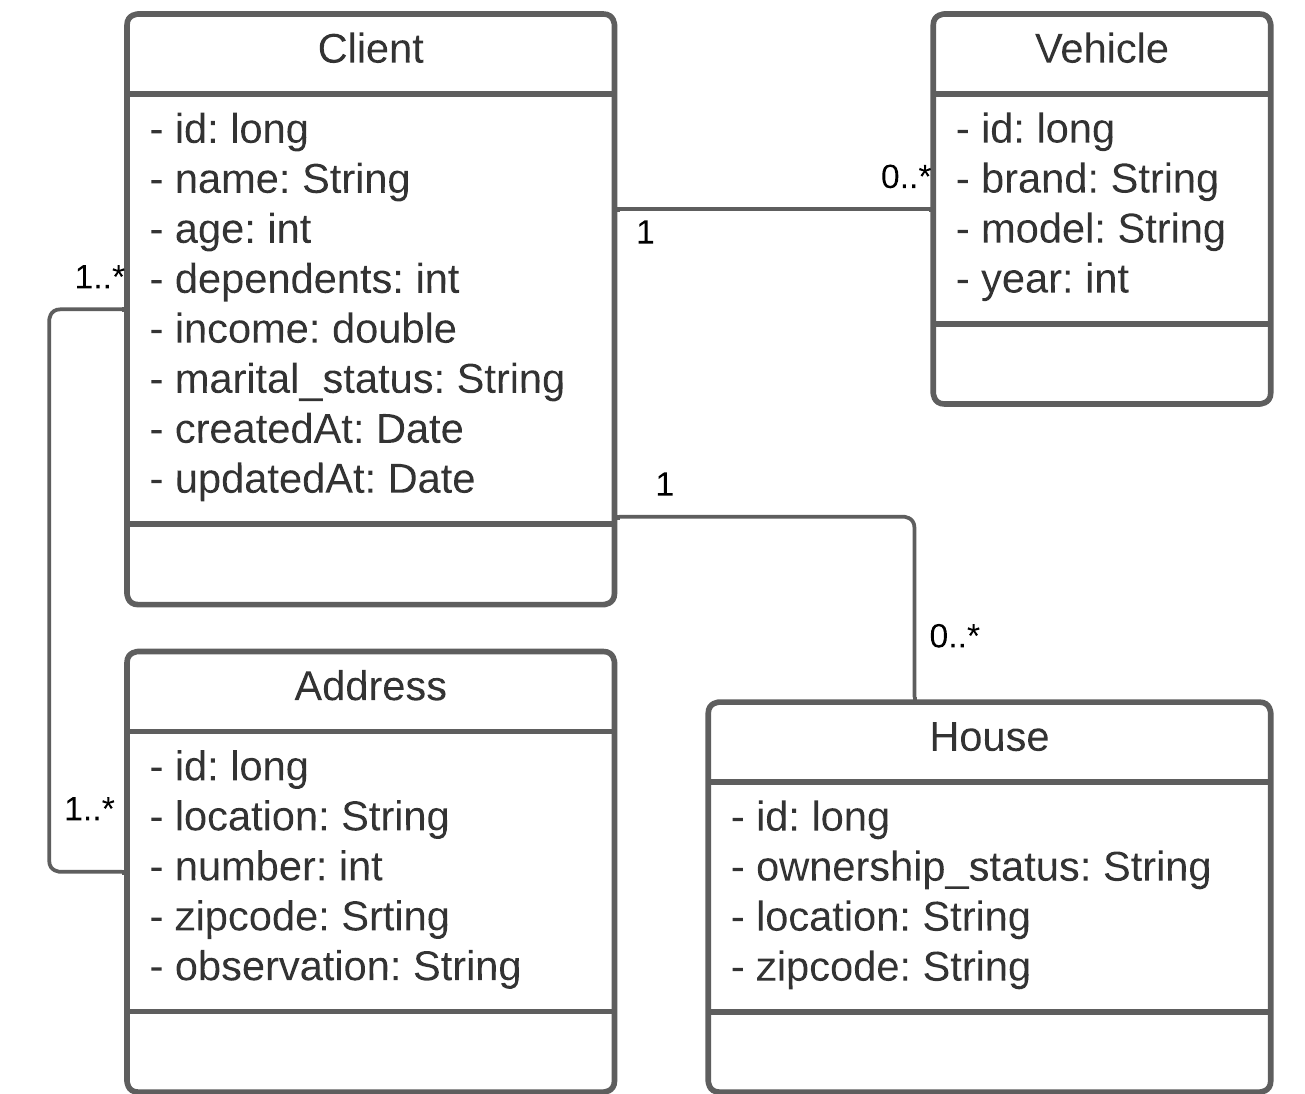
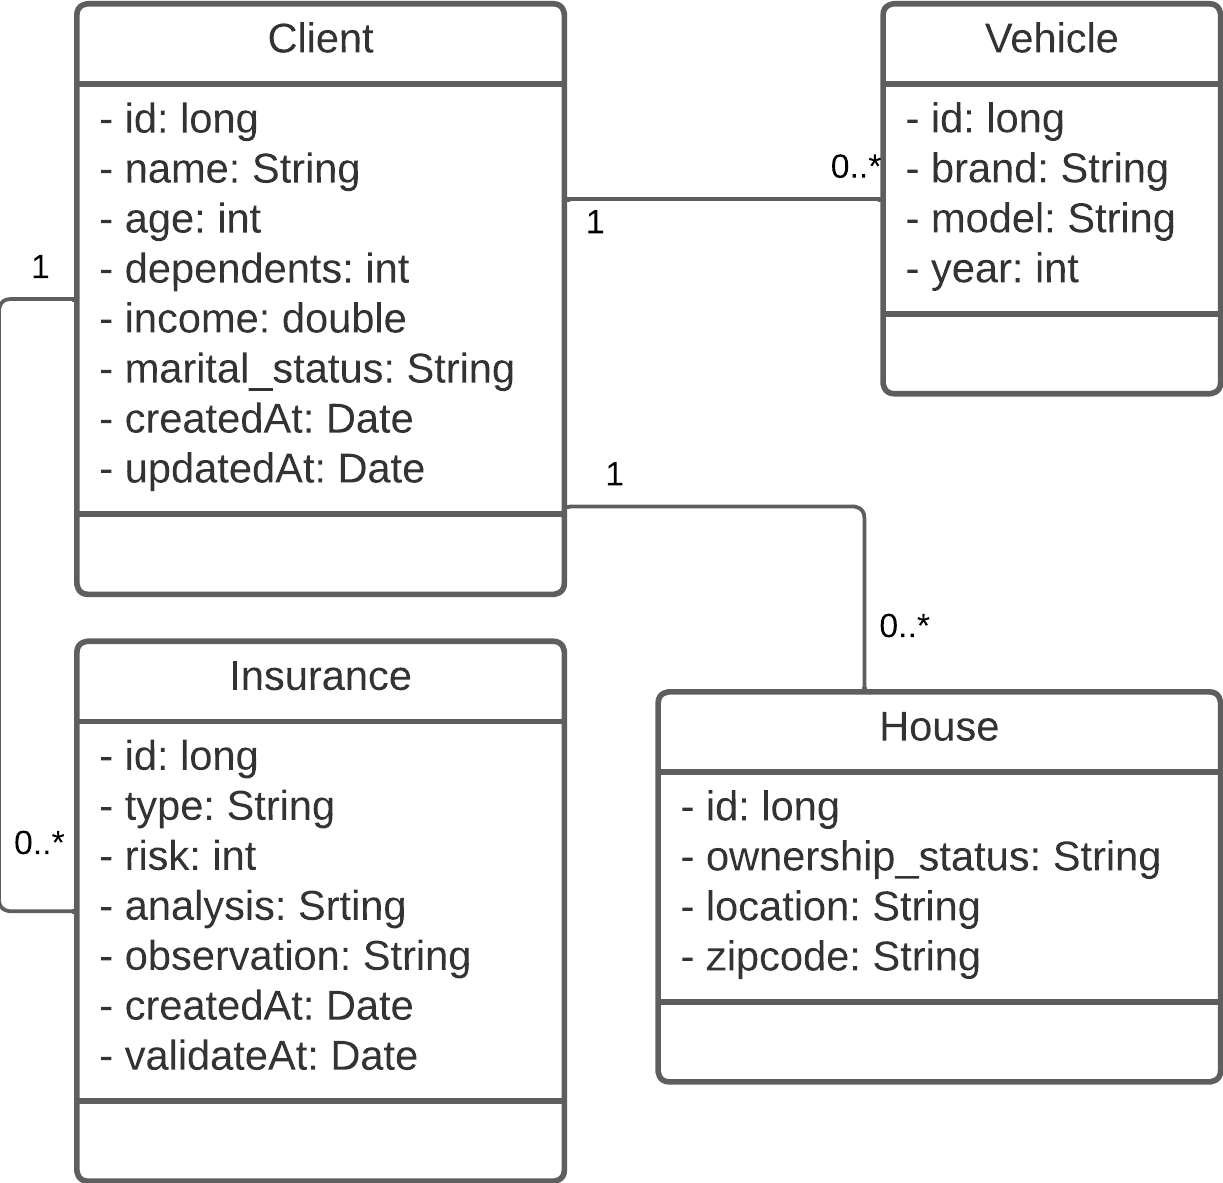
Adicionando instruções para o desafio NExT spring

Changed region(s): [[0.0, 0.0, 1.0, 1.0]]

diff --git a/README.md b/README.md
@@ -732,6 +732,222 @@ Retorna um objeto do tipo veículo que foi deletado.
 
 
 
+-------------------------------------------------------------
+<!-- Requisitos do Seguro -->
+
+
+
+
+
+
+
+
+### Requisitos do Seguro
+
+<details>
+<summary style="font-size:16px"><b>POST: /insurances/life</b></summary>
+
+### Função
+
+Realiza a analise de risco para a linha de seguro vida.
+
+#### Requisição
+
+**Parâmetros**
+| Parâmetro | Descrição | Tipo de Parâmetro | Tipo de dado | Obrigatório |
+|-----------|-----------|-------------------|--------------|------------|
+| `risk_questions` | Questões de risco. | `body` | `[boolean,boolean,boolean]` | Sim |
+| `client_id` | ID do cliente | `body` | `long` | Sim |
+
+
+**URL de Requisição**
+
+> $ curl -i -H "Content-Type:application/json" -d '{"risk_questions": "[bool,bool,bool]", "client_id": "long"}' https://localhost:8080/insurances/life
+
+#### Exemplo de requisição
+
+Envia um objeto do tipo `seguro` com o formato abaixo.
+
+```JSON
+{
+  "risk_questions": List [boolean, boolean, boolean],
+  "client_id": long
+}
+```
+
+Retorna um objeto do tipo seguro cadastrado, após realizar a analise de risco para a linha de seguro vida.
+
+#### Exemplo de resposta
+
+```JSON
+{
+ "id": long,
+ "type": String,
+ "risk": int,
+ "analysis": Srting,
+ "observation": String,
+ "client_id": long,
+ "createdAt": Date,
+ "validateAt": Date
+}
+```
+</details>
+
+
+<details>
+<summary style="font-size:16px"><b>POST: /insurances/disability</b></summary>
+
+### Função
+
+Realiza a analise de risco para a linha de seguro invalidez.
+
+#### Requisição
+
+**Parâmetros**
+| Parâmetro | Descrição | Tipo de Parâmetro | Tipo de dado | Obrigatório |
+|-----------|-----------|-------------------|--------------|------------|
+| `risk_questions` | Questões de risco. | `body` | `[boolean,boolean,boolean]` | Sim |
+| `client_id` | ID do cliente | `body` | `long` | Sim |
+
+
+**URL de Requisição**
+
+> $ curl -i -H "Content-Type:application/json" -d '{"risk_questions": "[bool,bool,bool]", "client_id": "long"}' https://localhost:8080/insurances/disability
+
+#### Exemplo de requisição
+
+Envia um objeto do tipo `seguro` com o formato abaixo.
+
+```JSON
+{
+  "risk_questions": List [boolean, boolean, boolean],
+  "client_id": long
+}
+```
+
+Retorna um objeto do tipo seguro cadastrado, após realizar a analise de risco para a linha de seguro invalidez.
+
+#### Exemplo de resposta
+
+```JSON
+{
+ "id": long,
+ "type": String,
+ "risk": int,
+ "analysis": Srting,
+ "observation": String,
+ "client_id": long,
+ "createdAt": Date,
+ "validateAt": Date
+}
+```
+</details>
+
+
+
+<details>
+<summary style="font-size:16px"><b>POST: /insurances/home</b></summary>
+
+### Função
+
+Realiza a analise de risco para a linha de seguro residencial.
+
+#### Requisição
+
+**Parâmetros**
+| Parâmetro | Descrição | Tipo de Parâmetro | Tipo de dado | Obrigatório |
+|-----------|-----------|-------------------|--------------|------------|
+| `risk_questions` | Questões de risco. | `body` | `[boolean,boolean,boolean]` | Sim |
+| `client_id` | ID do cliente | `body` | `long` | Sim |
+| `house_id` | ID da casa | `body` | `long` | Sim |
+
+
+**URL de Requisição**
+
+> $ curl -i -H "Content-Type:application/json" -d '{"risk_questions": "[bool,bool,bool]", "client_id": "long"}' https://localhost:8080/insurances/home
+
+#### Exemplo de requisição
+
+Envia um objeto do tipo `seguro` com o formato abaixo.
+
+```JSON
+{
+  "risk_questions": List [boolean, boolean, boolean],
+  "client_id": long,
+  "house_id": long
+}
+```
+
+Retorna um objeto do tipo seguro cadastrado, após realizar a analise de risco para a linha de seguro residencial.
+
+#### Exemplo de resposta
+
+```JSON
+{
+ "id": long,
+ "type": String,
+ "risk": int,
+ "analysis": Srting,
+ "observation": String,
+ "client_id": long,
+ "createdAt": Date,
+ "validateAt": Date
+}
+```
+</details>
+
+
+
+<details>
+<summary style="font-size:16px"><b>POST: /insurances/auto</b></summary>
+
+### Função
+
+Realiza a analise de risco para a linha de seguro automóvel.
+
+#### Requisição
+
+**Parâmetros**
+| Parâmetro | Descrição | Tipo de Parâmetro | Tipo de dado | Obrigatório |
+|-----------|-----------|-------------------|--------------|------------|
+| `risk_questions` | Questões de risco. | `body` | `[boolean,boolean,boolean]` | Sim |
+| `client_id` | ID do cliente | `body` | `long` | Sim |
+| `vehicle_id` | ID do veículo | `body` | `long` | Sim |
+
+
+**URL de Requisição**
+
+> $ curl -i -H "Content-Type:application/json" -d '{"risk_questions": "[bool,bool,bool]", "client_id": "long"}' https://localhost:8080/insurances/auto
+
+#### Exemplo de requisição
+
+Envia um objeto do tipo `seguro` com o formato abaixo.
+
+```JSON
+{
+  "risk_questions": List [boolean, boolean, boolean],
+  "client_id": long,
+  "house_id": long
+}
+```
+
+Retorna um objeto do tipo seguro cadastrado, após realizar a analise de risco para a linha de seguro automóvel.
+
+#### Exemplo de resposta
+
+```JSON
+{
+ "id": long,
+ "type": String,
+ "risk": int,
+ "analysis": Srting,
+ "observation": String,
+ "client_id": long,
+ "createdAt": Date,
+ "validateAt": Date
+}
+```
+</details>
 
 
 -------------------------------------------------------------
@@ -781,13 +997,15 @@ Todos os atributos do veículo são obrigatórios:
 </details>
 
 <details>
-<summary style="font-size:16px"><b>Atributos do Endereço</b></summary>
-Todos os atributos do veículo são obrigatórios:
+<summary style="font-size:16px"><b>Atributos do Seguro</b></summary>
+Todos os atributos do Seguro são obrigatórios:
 
-  - **`location`**: Um valor textual que terá o endereço completo do cliente.
-  - **`number`**: Um número inteiro positivo correspondente ao numero d endereço
-  - **`zipcode`**: Um valor textual que terá o CEP.
-  - **`observation`**: Um valor textual correspondente a observação do endereço
+- **`type`**: Um valor textual que pode ser "`life`", "`disability`", "`home`" ou "`auto`".
+- **`risk`**: Um número inteiro correspondente a pontuação do risco
+- **`analysis`**: Um valor textual que pode ser "`economic`", "`regular`" ou "`responsible`".
+- **`observation`**: Um valor textual correspondente a observação do seguro
+- **`createdAt`**: Data de criação da analise.
+- **`validatedAt`**: Data de validade da analise.
 
 </details>
 
@@ -805,11 +1023,13 @@ Primeiro, calcula a pontuação base somando as respostas das questões de risco
 - Se o usuário tiver dependentes, adicione 1 ponto de risco aos escores de incapacidade e de vida.
 - Se o usuário for casado, adicione 1 ponto de risco à pontuação de vida e remova 1 ponto de risco de incapacidade.
 - Se o veículo do usuário foi produzido nos últimos 5 anos, adicione 1 ponto de risco à pontuação desse veículo.
-- Este algoritmo resulta numa pontuação final para cada ramo de seguro, que deve ser processada utilizando os seguintes intervalos:
 
-- 0 e abaixo são mapeados para `“econômico”` .
-- 1 e 2 são mapeados para `“regular”` .
-- 3 e acima mapeia para `“responsável”` .
+
+Este algoritmo resulta numa pontuação final para cada ramo de seguro, que deve ser analisada utilizando os seguintes intervalos:
+
+- 0 e abaixo são mapeados para `“economic”`.
+- 1 e 2 são mapeados para `“regular”`.
+- 3 e acima mapeia para `“responsible”` .
 
 ## Etapas do projeto
 
@@ -817,12 +1037,29 @@ Primeiro, calcula a pontuação base somando as respostas das questões de risco
 
 - Configure o seu projeto para que se conecte a um banco de dados MySQL.
 - Desenvolva as entidades, crie os relacionamentes entre as classes de acordo com o diagrama a baixo e faça o mapeamento das entidade para serem persistidos em um banco de dados MySQL.
+  - > Obs.: crie as entidade se baseando nas [especificações](#especificações) de cada entidade
+
+- Extra/Opcional:
+  - Crie alguns registros no banco para testar a sua implementação
 
 ![diagrama](.github/assets/images/diagrama.png)
 
 ### 2. Segunda Etapa
 
-Desenvolva as rotas especificadas nos [requisitos](#requisitos)
+- Desenvolva as rotas especificadas nos [requisitos](#requisitos), começando com os [requisitos do cliente](#requisitos-do-cliente), logo depois faça os [requisitos da casa](#requisitos-da-casa) e por fim os [requisitos do veículo](#requisitos-do-veículo).
+
+- Os [requisitos do seguro](#requisitos-do-seguro), não deverão ser implementados na 2º etapa.
+
+### 3. Terceira Etapa
+
+- Desenvolva as rotas espeficicadas nos [requisitos do seguro](#requisitos-do-seguro):
+  - [POST: /insurances/life](#func3a7c3a3o-12)
+  - [POST: /insurances/disability](#func3a7c3a3o-13)
+  - [POST: /insurances/home](#func3a7c3a3o-14)
+  - [POST: /insurances/auto](#func3a7c3a3o-15)
+
+- Bonus:
+  - Ao final do desafio serão selecionados alguns participantes para serem entrevistados, seguindo as recomendações [para o dia da entrevista técnica](#para-o-dia-da-entrevista-técnica)
 
 ## Critérios de Avaliação
 
